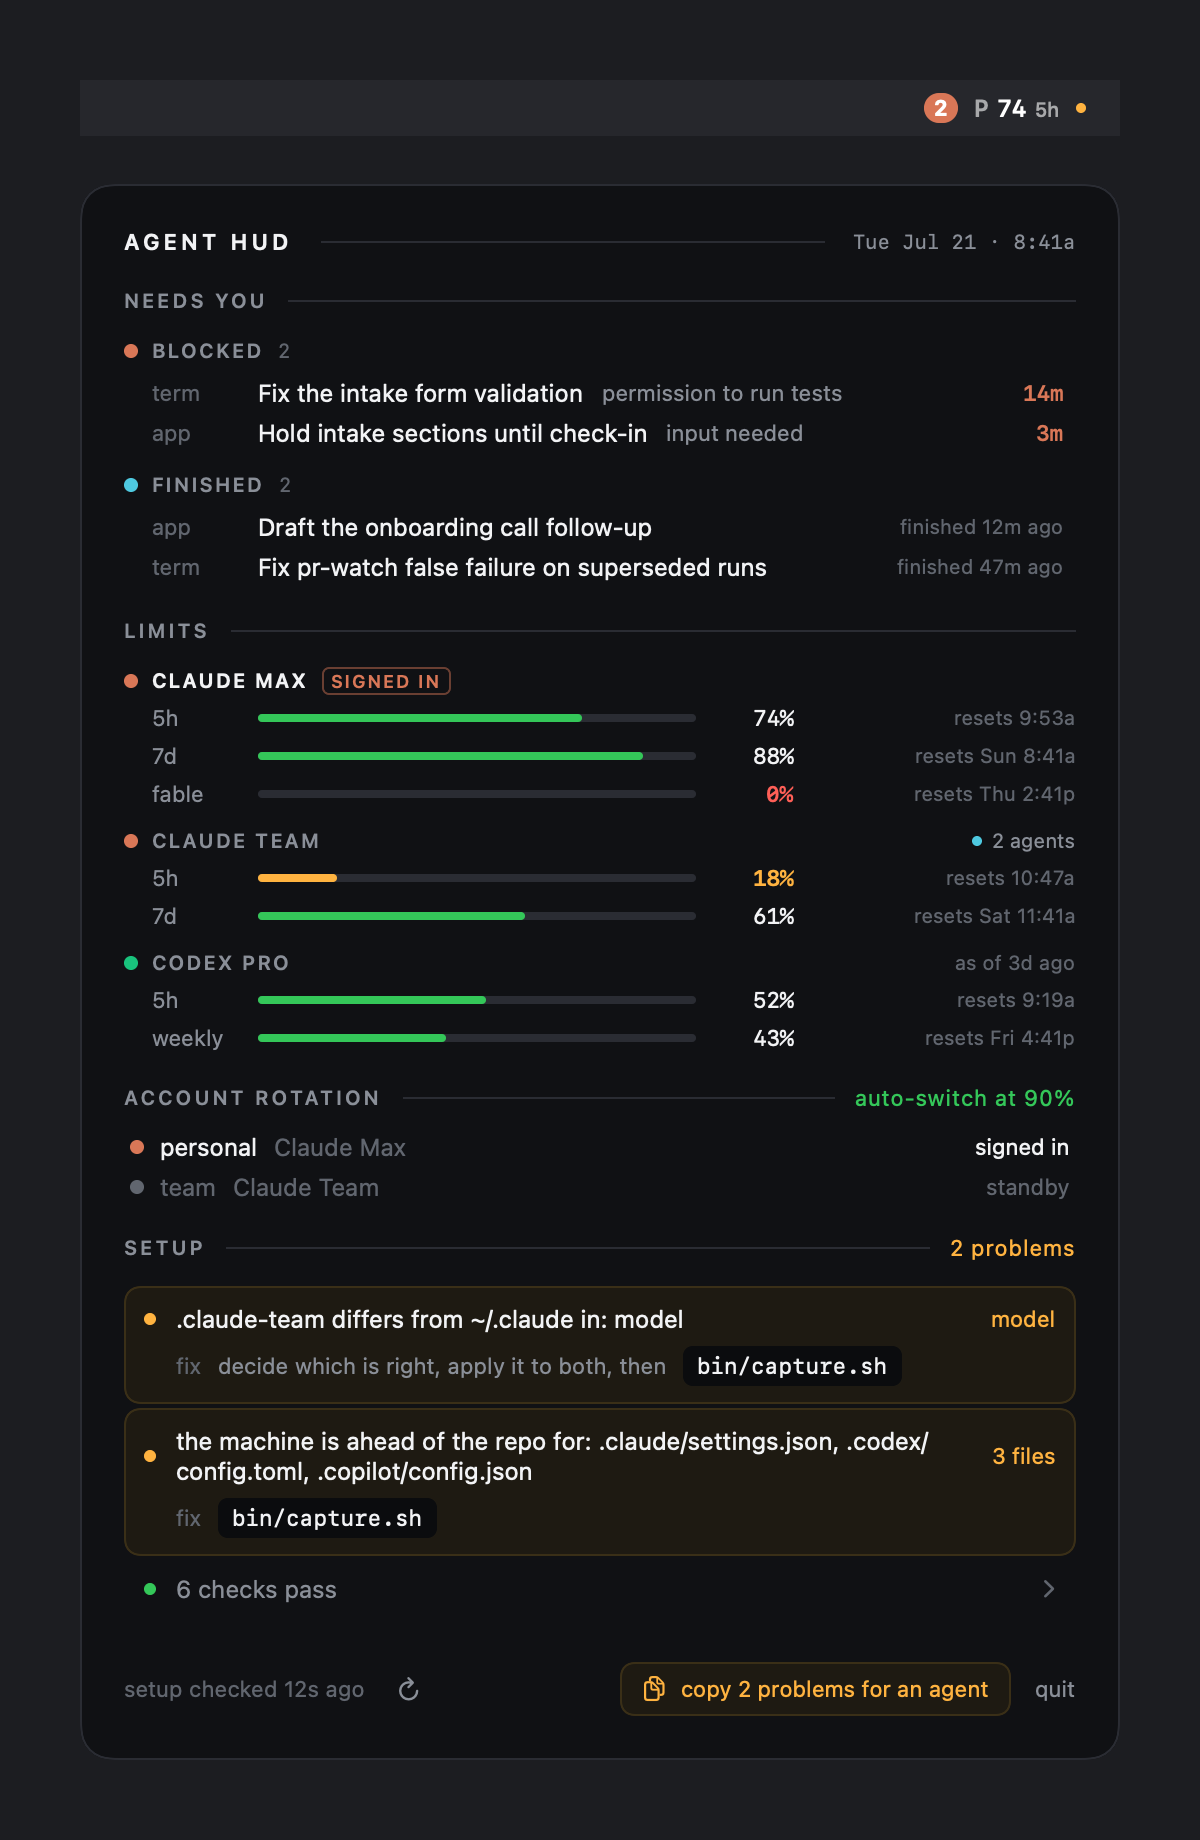
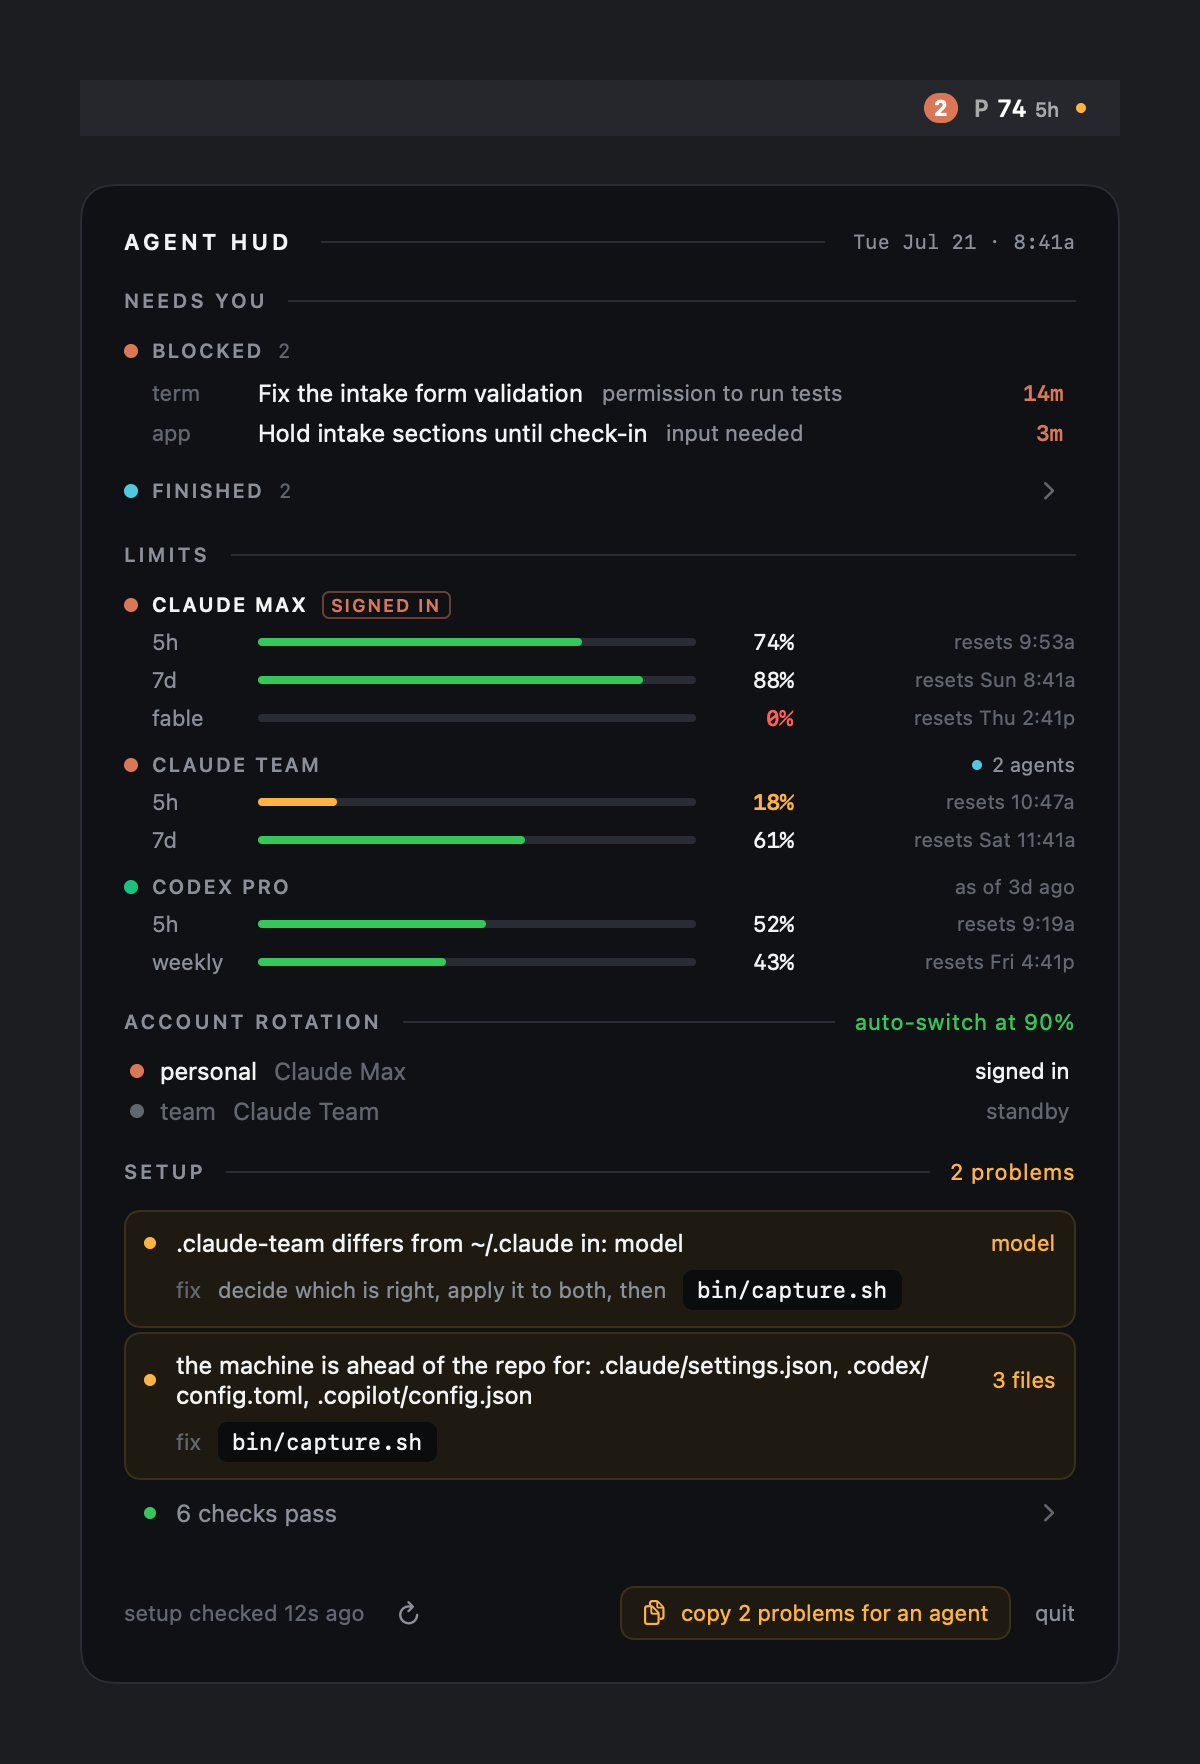
Fold the finished sessions by default
The Finished group in NEEDS YOU now starts folded behind its heading,
with a chevron. A click on the heading opens the rows. Blocked stays open.

Claude-Session: https://claude.ai/code/session_01Jo5D9EAHiiuvA79z4sD3SW

diff --git a/hud/Sources/HUDCore/NeedsYouSection.swift b/hud/Sources/HUDCore/NeedsYouSection.swift
@@ -15,11 +15,16 @@ public struct NeedsYouSection: View {
     /// Called with the row's agent on a click. Nil in previews and tests, which
     /// is why it is a seam rather than a direct call into SessionFocus.
     public var onSelect: ((Agent) -> Void)?
+    /// Finished starts folded: a finished session can wait for a look, and its
+    /// rows pushed the limits and the setup panel down the card.
+    @State private var showsFinished: Bool
 
-    public init(needsYou: NeedsYou, now: Date, onSelect: ((Agent) -> Void)? = nil) {
+    public init(needsYou: NeedsYou, now: Date, onSelect: ((Agent) -> Void)? = nil,
+                showsFinished: Bool = false) {
         self.needsYou = needsYou
         self.now = now
         self.onSelect = onSelect
+        _showsFinished = State(initialValue: showsFinished)
     }
 
     public var body: some View {
@@ -30,26 +35,23 @@ public struct NeedsYouSection: View {
                     group("BLOCKED", dot: Theme.claudeCoral, agents: needsYou.blocked)
                 }
                 if !needsYou.finished.isEmpty {
-                    group("FINISHED", dot: Theme.agentDot, agents: needsYou.finished)
+                    group("FINISHED", dot: Theme.agentDot, agents: needsYou.finished,
+                          isExpanded: showsFinished) {
+                        withAnimation(.easeOut(duration: 0.18)) { showsFinished.toggle() }
+                    }
                 }
             }
         }
     }
 
-    private func group(_ title: String, dot: Color, agents: [Agent]) -> some View {
+    /// A group with `onToggle` folds: its heading becomes the control, with a
+    /// chevron, and its rows show only while it is open.
+    private func group(_ title: String, dot: Color, agents: [Agent],
+                       isExpanded: Bool = true, onToggle: (() -> Void)? = nil) -> some View {
         VStack(alignment: .leading, spacing: 1) {
-            HStack(spacing: 7) {
-                Circle().fill(dot).frame(width: 7, height: 7)
-                Text(title)
-                    .font(Theme.label(10, weight: .semibold))
-                    .tracking(1.0)
-                    .foregroundStyle(Theme.muted)
-                Text("\(agents.count)")
-                    .font(Theme.mono(10))
-                    .foregroundStyle(Theme.faint)
-            }
-            .padding(.bottom, 4)
-            ForEach(agents) { agent in
+            groupHeading(title, dot: dot, count: agents.count,
+                         isExpanded: isExpanded, onToggle: onToggle)
+            ForEach(isExpanded ? agents : []) { agent in
                 NeedsYouRow(agent: agent, now: now)
                     .padding(.vertical, 2)
                     .padding(.trailing, 6)
@@ -57,6 +59,41 @@ public struct NeedsYouSection: View {
                     .onTapGesture { onSelect?(agent) }
                     .help(agent.isDesktop ? "Open in Claude" : "Bring its Terminal tab forward")
             }
+        }
+    }
+
+    @ViewBuilder
+    private func groupHeading(_ title: String, dot: Color, count: Int,
+                              isExpanded: Bool, onToggle: (() -> Void)?) -> some View {
+        let heading = HStack(spacing: 7) {
+            Circle().fill(dot).frame(width: 7, height: 7)
+            Text(title)
+                .font(Theme.label(10, weight: .semibold))
+                .tracking(1.0)
+                .foregroundStyle(Theme.muted)
+            Text("\(count)")
+                .font(Theme.mono(10))
+                .foregroundStyle(Theme.faint)
+            if onToggle != nil {
+                Spacer(minLength: 8)
+                Image(systemName: "chevron.right")
+                    .font(.system(size: 10, weight: .semibold))
+                    .foregroundStyle(Theme.faint)
+                    .rotationEffect(.degrees(isExpanded ? 90 : 0))
+                    .padding(.trailing, 10)
+            }
+        }
+        if let onToggle {
+            heading
+                .padding(.vertical, 3)
+                .clickableRow()
+                .onTapGesture(perform: onToggle)
+                .accessibilityElement(children: .combine)
+                .accessibilityAddTraits(.isButton)
+                .accessibilityHint(isExpanded ? "Hide the finished sessions" : "Show the finished sessions")
+                .padding(.bottom, isExpanded ? 1 : 0)
+        } else {
+            heading.padding(.bottom, 4)
         }
     }
 

diff --git a/hud/Tests/HUDCoreTests/NeedsYouTests.swift b/hud/Tests/HUDCoreTests/NeedsYouTests.swift
@@ -188,3 +188,23 @@ final class NeedsYouClickableTests: XCTestCase {
         XCTAssertFalse(section(onSelect: nil).isClickable(agent(tty: "ttys012")))
     }
 }
+
+/// Finished starts folded behind its heading, and opens to the full rows.
+final class NeedsYouFinishedFoldTests: XCTestCase {
+
+    @MainActor
+    private func height(_ view: some View) -> CGFloat {
+        let renderer = ImageRenderer(content: view.frame(width: 500))
+        return renderer.cgImage.map { CGFloat($0.height) / renderer.scale } ?? 0
+    }
+
+    @MainActor
+    func testFinishedStartsFoldedAndOpensTaller() {
+        let needsYou = HUDSnapshot.sample.needsYou(now: HUDSnapshot.previewNow)
+        XCTAssertFalse(needsYou.finished.isEmpty)
+        let folded = height(NeedsYouSection(needsYou: needsYou, now: HUDSnapshot.previewNow))
+        let open = height(NeedsYouSection(needsYou: needsYou, now: HUDSnapshot.previewNow, showsFinished: true))
+        XCTAssertGreaterThan(folded, 0)
+        XCTAssertLessThan(folded + 30, open)
+    }
+}
